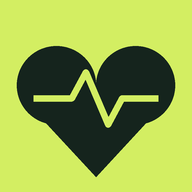
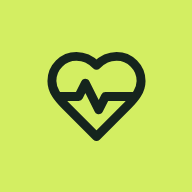
Dito's Health: modo app em tela cheia (service worker) e icone igual ao da tela do PIN
Claude-Session: https://claude.ai/code/session_015a8a9oyfqgXPjKrFhhQwmU

Changed region(s): [[0.0625, 0.2188, 0.9375, 0.9375]]

diff --git a/sw.js b/sw.js
@@ -1,0 +1,11 @@
+// Dito's Health: service worker mínimo (rede primeiro; cópia local só para abrir sem internet)
+const CACHE = "dito-v1";
+const SHELL = ["./", "./index.html", "./manifest.json", "./icon-192.png", "./icon-512.png"];
+self.addEventListener("install", e => { e.waitUntil(caches.open(CACHE).then(c => c.addAll(SHELL)).catch(()=>{})); self.skipWaiting(); });
+self.addEventListener("activate", e => { e.waitUntil(caches.keys().then(ks => Promise.all(ks.filter(k => k !== CACHE).map(k => caches.delete(k))))); self.clients.claim(); });
+self.addEventListener("fetch", e => {
+  const u = new URL(e.request.url);
+  if (e.request.method !== "GET" || u.origin !== location.origin) return; // banco de dados e fontes: direto da rede
+  e.respondWith(fetch(e.request).then(r => { const c = r.clone(); caches.open(CACHE).then(ca => ca.put(e.request, c)); return r; })
+    .catch(() => caches.match(e.request).then(r => r || caches.match("./index.html"))));
+});

diff --git a/index.html b/index.html
@@ -6,6 +6,8 @@
 <meta name="theme-color" content="#EEF2EE">
 <meta name="robots" content="noindex, nofollow">
 <meta name="apple-mobile-web-app-capable" content="yes">
+<meta name="mobile-web-app-capable" content="yes">
+<meta name="apple-mobile-web-app-status-bar-style" content="default">
 <meta name="apple-mobile-web-app-title" content="Dito's Health">
 <link rel="manifest" href="manifest.json">
 <link rel="icon" href="icon-192.png">
@@ -801,6 +803,7 @@ document.addEventListener("visibilitychange", ()=>{ if(document.visibilityState=
 
 render();
 if(S.pin) refresh();
+if("serviceWorker" in navigator) window.addEventListener("load", ()=>navigator.serviceWorker.register("sw.js").catch(()=>{}));
 </script>
 </body>
 </html>
